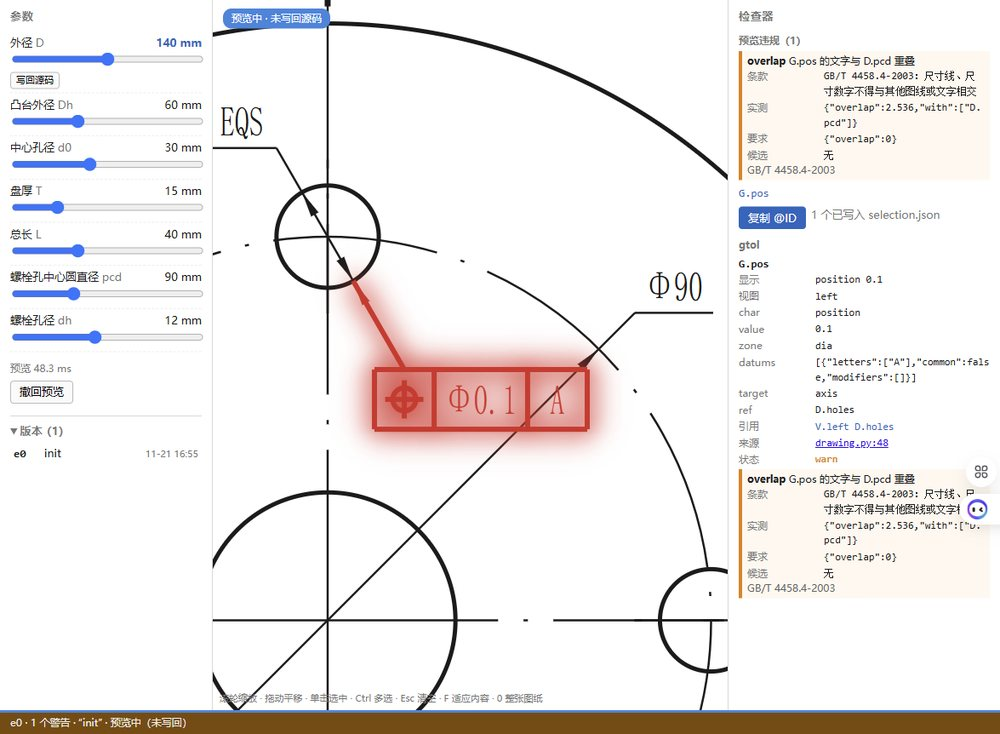
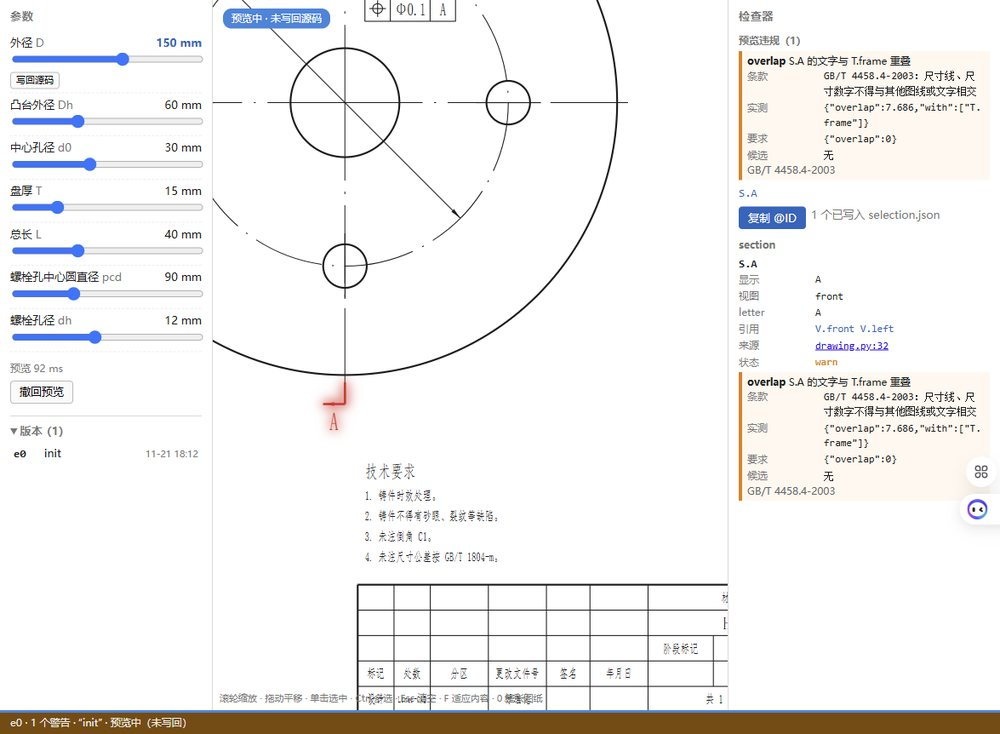
fix: B3 second review - repin scenario after D1, keep failed-preview marks, restore preview values/status/seq on reload

diff --git a/src/linercad/viewer/viewer.js b/src/linercad/viewer/viewer.js
@@ -5,7 +5,7 @@ const $ = (id) => document.getElementById(id);
 const S = { version: -1, model: null, byId: {}, sel: [], svg: null, vb: null, full: null, params: [],
   values: {}, dragging: false, previewTimer: null, previewSeq: 0, fitted: false,
   versions: [], pick: [], cmp: null, busy: false,
-  previewIds: new Set(), previewFindings: [], paramError: null, resolved: {}, previewActive: false, unplaced: [] };  // B3
+  previewIds: new Set(), previewFindings: [], paramError: null, resolved: {}, previewActive: false, unplaced: [], statusOrig: {} };  // B3
 
 async function api(path, body) {
   const opt = body === undefined ? { headers: { "X-LCAD-Token": TOKEN } } : { method: "POST", body: JSON.stringify(body),
@@ -18,7 +18,7 @@ async function api(path, body) {
 async function poll() {
   try {
     const st = await api("/api/state");
-    if (!st.preview && clearPreviewFindings()) { colour(); inspect(); }
+    if (!st.preview && !st.param_errors && clearPreviewFindings()) { colour(); inspect(); }
     setStatus(st);
     if (st.version !== S.version) { S.version = st.version; await reload(st); }
   } catch (e) { $("st-text").textContent = "与服务断开：" + e; }
@@ -27,6 +27,7 @@ async function poll() {
 
 function setStatus(st) {
   S.previewActive = !!st.preview;
+  if (typeof st.preview_seq === "number") S.previewSeq = Math.max(S.previewSeq, st.preview_seq);
   const bar = $("status");
   bar.classList.toggle("has-error", !!st.build_error || st.errors > 0);
   bar.classList.toggle("has-warn", !st.build_error && !st.errors && st.warnings > 0);
@@ -111,8 +112,17 @@ function applyFindings(findings, isPreview, resolved, elementIssues) {
   if (!elementIssues) for (const f of findings || []) (byId[f.id] ||= []).push(f);
   for (const e of Object.values(S.byId)) {
     e.issues = byId[e.id] || [];
-    if (e.issues.some((i) => i.severity === "error")) e.status = "error";
-    else if (e.issues.length) e.status = "warn";
+    if (isPreview) {
+      if (!(e.id in S.statusOrig)) S.statusOrig[e.id] = e.status;
+      if (e.issues.some((i) => i.severity === "error")) e.status = "error";
+      else if (e.issues.length) e.status = "warn";
+    } else {
+      const orig = S.statusOrig[e.id];
+      delete S.statusOrig[e.id];
+      if (e.issues.some((i) => i.severity === "error")) e.status = "error";
+      else if (e.issues.length) e.status = "warn";
+      else if (orig !== undefined) e.status = orig;
+    }
   }
   S.previewFindings = isPreview ? findings : [];
   S.previewIds = new Set(isPreview ? findings.map((f) => f.id).concat(Object.keys(resolved || {})) : []);
@@ -339,7 +349,14 @@ async function loadParams() {
     for (const p of ps) div.appendChild(paramRow(p));
     list.appendChild(div);
   }
-  $("btn-reset").disabled = true; $("param-msg").textContent = "";
+  S.values = {};
+  for (const p of r.params) if (p.value !== p.default) S.values[p.name] = p.value;
+  for (const row of list.querySelectorAll(".param")) {
+    const p = r.params.find((q) => q.name === row.dataset.name);
+    row.classList.toggle("changed", !!p && p.value !== p.default);
+  }
+  $("btn-reset").disabled = !Object.keys(S.values).length;
+  $("param-msg").textContent = Object.keys(S.values).length ? "预览值已从服务端恢复（页面 reload）" : "";
 }
 function paramRow(p) {
   const v0 = p.default, lo = p.min ?? +(v0 * 0.5).toFixed(3), hi = p.max ?? +(v0 * 1.5 || 10).toFixed(3);

diff --git a/tests/test_viewer.py b/tests/test_viewer.py
@@ -18,6 +18,12 @@ from linercad.viewer import Viewer, make_handler, rewrite_param
 
 EXAMPLES = ["shaft", "flange", "pulley", "end_cover"]
 
+# B3 acceptance scenario: drag D until the preview build has a violation. Main's layout work (D1 moved
+# the flange radial leaders / section label) can move this value: keep it in one place, and assert the
+# semantics (a finding with the E1 fields on a drawn element) rather than one layout coordinate.
+PREVIEW_VIOLATION = {"D": 150}
+PREVIEW_VIOLATION_ID = "S.A"
+
 
 @pytest.fixture(scope="module")
 def built(tmp_path_factory):
@@ -257,25 +263,29 @@ def flange_dir(tmp_path):
 def test_preview_returns_e1_finding_fields(flange_dir):
     v = Viewer(flange_dir)
     r = v.do_preview(
-        {"D": 140}
-    )  # the flange drags D out until the position frame overlaps a dimension
+        PREVIEW_VIOLATION
+    )  # the flange drags D out until the section label hits the frame
     assert r["ok"] and r["findings"], r
-    hit = [f for f in r["findings"] if f["rule"] == "overlap" and f["id"] == "G.pos"]
+    for f in r["findings"]:  # every preview violation carries the E1 fields
+        assert {"rule", "id", "severity", "message"} <= set(f)
+        assert {"clause", "measured", "expected", "candidates"} <= set(f), f
+    hit = [f for f in r["findings"] if f["id"] == PREVIEW_VIOLATION_ID]
     assert hit, r["findings"]
     f = hit[0]
-    assert f["severity"] == "warn"
+    assert f["severity"] == "warn" and f["rule"] == "overlap"
     assert "GB/T 4458.4-2003" in f["clause"] and "尺寸" in f["clause"]  # E1 clause statement
-    assert f["measured"]["with"] == ["D.pcd"] and f["measured"]["overlap"] > 0  # E1 measured values
+    assert isinstance(f["measured"], dict) and f["measured"]  # E1 measured values
     assert f["expected"]["overlap"] == 0.0  # E1 expectation
     assert f["candidates"] == [] and isinstance(f["candidates"], list)  # E1 candidates
     assert f["pack"] == "layout" and f["std"] == "GB/T 4458.4-2003"
-    assert r["resolved"] == {}  # every D=140 finding points at a drawn element directly
-    assert r["element_issues"]["G.pos"][0]["clause"] == f["clause"]  # inspector data for the target
+    assert r["resolved"] == {}  # every finding points at a drawn element directly
+    assert r["element_issues"][PREVIEW_VIOLATION_ID][0]["clause"] == f["clause"]  # inspector data
 
 
 def test_preview_findings_reach_model_and_snapshot(flange_dir):
     v = Viewer(flange_dir)
-    r = v.do_preview({"D": 140})
+    r = v.do_preview(PREVIEW_VIOLATION)
+    assert v.params()["params"][0]["value"] == PREVIEW_VIOLATION["D"]  # a reload can restore it
     ids = {f["id"] for f in r["findings"]}
     model = v.model()
     drawn = {e["id"] for e in model["elements"]}
@@ -283,13 +293,17 @@ def test_preview_findings_reach_model_and_snapshot(flange_dir):
         ids and ids <= drawn
     )  # every violation points at a drawn element: the canvas can colour it
     by_id = {e["id"]: e for e in model["elements"]}
-    issue = next(i for i in by_id["G.pos"]["issues"] if i["rule"] == "overlap")
+    issue = next(i for i in by_id[PREVIEW_VIOLATION_ID]["issues"] if i["rule"] == "overlap")
     assert {"clause", "measured", "expected", "candidates"} <= set(issue)
     assert "GB/T 4458.4-2003" in issue["clause"]
-    global_issue = next(i for i in model["issues"] if i["rule"] == "overlap" and i["id"] == "G.pos")
+    global_issue = next(
+        i for i in model["issues"] if i["rule"] == "overlap" and i["id"] == PREVIEW_VIOLATION_ID
+    )
     assert {"clause", "measured", "expected", "candidates"} <= set(global_issue)
     snap = json.loads((flange_dir / ".linercad/snapshot.json").read_text(encoding="utf-8"))
-    s = next(i for i in snap["issues"] if i["rule"] == "overlap" and i["id"] == "G.pos")
+    s = next(
+        i for i in snap["issues"] if i["rule"] == "overlap" and i["id"] == PREVIEW_VIOLATION_ID
+    )
     assert s["clause"] == issue["clause"] and s["measured"] == issue["measured"]
     assert s["expected"] == issue["expected"] and s["candidates"] == issue["candidates"]
     # releasing the slider / undoing the preview clears the findings again
@@ -312,7 +326,16 @@ def test_preview_param_rule_error_lists_affected_elements_only(flange_dir):
     assert snap["param_errors"]["error"]["id"] == "Dh" and snap["param_errors"]["affected"] == [
         "D.Dh"
     ]
+    # the page keeps the failed preview's marks until the next user action: state tells it so
+    state = v.state()
+    assert state["param_errors"] is True and isinstance(state["preview_seq"], int)
+    # a rebuild (refresh) must not leave the failed preview in snapshot.json
+    assert v.refresh(force=True)
+    assert v.state()["param_errors"] is False
+    snap = json.loads((flange_dir / ".linercad/snapshot.json").read_text(encoding="utf-8"))
+    assert snap["param_errors"] == {}
     # withdrawing the preview must also clear the param error from snapshot.json (B3 review)
+    assert v.do_preview({"Dh": 120})["ok"] is False
     assert v.do_preview({})["ok"]
     snap = json.loads((flange_dir / ".linercad/snapshot.json").read_text(encoding="utf-8"))
     assert snap["param_errors"] == {}
@@ -360,6 +383,9 @@ def test_viewer_consumes_preview_findings_on_the_canvas():
         "element_issues",
         "previewActive",
         "unplaced",
+        "statusOrig",
+        "st.preview_seq",
+        "预览值已从服务端恢复",
         "releasePreview",
         "++S.previewSeq",
         "无",
@@ -374,12 +400,17 @@ def test_viewer_consumes_preview_findings_on_the_canvas():
 
 def test_withdrawn_preview_cannot_be_restored_by_a_stale_request(flange_dir):
     v = Viewer(flange_dir)
-    assert v.do_preview({"D": 140}, seq=5)["ok"]
+    assert v.do_preview(PREVIEW_VIOLATION, seq=5)["ok"]
     # a freshly reloaded page starts its seq at 1 while the server still knows seq 5: withdrawal wins
     assert v.do_preview({}, seq=1)["ok"] and v.preview is None
-    late = v.do_preview({"D": 140}, seq=5)  # the old page's in-flight preview arrives after it
+    late = v.do_preview(
+        PREVIEW_VIOLATION, seq=5
+    )  # the old page's in-flight preview arrives after it
     assert late["ok"] is False and late.get("superseded") and v.preview is None
-    assert v.state()["preview"] is False
+    state = v.state()
+    assert (
+        state["preview"] is False and state["preview_seq"] == 6
+    )  # client adopts the server baseline
 
 
 def test_unplaced_finding_is_listed_with_the_e1_fields(tmp_path):
@@ -416,10 +447,10 @@ def test_preview_api_returns_findings_with_fields(tmp_path):
     try:
         base = f"http://127.0.0.1:{httpd.server_address[1]}"
         tok = {"X-LCAD-Token": v.token}
-        code, body = req(base + "/api/preview", {"values": {"D": 140}, "seq": 1}, tok)
+        code, body = req(base + "/api/preview", {"values": PREVIEW_VIOLATION, "seq": 1}, tok)
         got = json.loads(body)
         assert code == 200 and got["ok"], got
-        hit = next(f for f in got["findings"] if f["rule"] == "overlap" and f["id"] == "G.pos")
+        hit = next(f for f in got["findings"] if f["id"] == PREVIEW_VIOLATION_ID)
         assert "GB/T 4458.4-2003" in hit["clause"] and hit["expected"]["overlap"] == 0.0
         assert got["affected"] == []
         code, body = req(base + "/api/preview", {"values": {}, "seq": 2}, tok)

diff --git a/src/linercad/viewer/__init__.py b/src/linercad/viewer/__init__.py
@@ -128,6 +128,7 @@ class Viewer:
             else:
                 self.res, self.svg, self.error = res, svgout.svg(res.d), None
                 self.preview = None
+                self.param_errors = {}
             self.version += 1
             self._write_snapshot()
             return True
@@ -163,6 +164,8 @@ class Viewer:
                 "warnings": warns,
                 "build_error": self.error,
                 "preview": bool(self.preview),
+                "preview_seq": self.preview_seq,
+                "param_errors": bool(self.param_errors),
             }
 
     def _current(self):

diff --git a/docs/milestones/v0.1.1/evidence/b3-viewer-violations.md b/docs/milestones/v0.1.1/evidence/b3-viewer-violations.md
@@ -2,12 +2,15 @@
 
 卡 B3（issue #96，W3 核心卡）· 2026-11-21 · 依赖 E1（finding 的 clause / measured / expected / candidates）
 
-## 1. 验收场景（lead 2026-11-21 裁定）
+## 1. 验收场景（lead 2026-11-21 裁定；main 合入 D1 后重钉）
 
-v0.1.0 review 第 3 条的复现写作「flange 把 dh 拖到违规值」，但 **当前 main（含 E1）的 dh 场景不可复现**：flange 的参数规则只挂在 Dh / d0 / L / pcd 上，dh 无规则；在 dh∈[6, 20] 内 `Dh < pcd − dh`（60 < 70…84）与 `pcd + dh < D`（96…110 < 120）恒成立，预览既不报 ParamError 也不产生任何 check finding（实测扫过 dh=6..20 全部 0.5 步长，并把其它参数推到极值核对过规则语义）。lead 裁定改用**真实可触发的预览违规**：
+v0.1.0 review 第 3 条的复现写作「flange 把 dh 拖到违规值」，但 **E1 后的 dh 场景不可复现**：flange 的参数规则只挂在 Dh / d0 / L / pcd 上，dh 无规则；dh∈[6, 20] 内 `Dh < pcd − dh` 与 `pcd + dh < D` 恒成立，预览既不报 ParamError 也不产生任何 check finding（实测扫过 dh=6..20 全部 0.5 步长，并把其它参数推到极值核对规则语义）。lead 裁定改用真实可触发的预览违规。
 
-- **flange 把 D 拖到 140** → 预览产生 `overlap / G.pos`（warn，E1 四字段齐全）→ 画布上 G.pos 标红 → 拖回默认值 / 撤回预览后消失。
-- dh 场景在 E1 后不可复现这件事，lead 记入台账，由 F1 的 docs PR 补偏离记录；V1 重拍 B 卡截图时与 D1 / D2 一起复核（PLAN §2 的截图重拍约定）。
+**场景随 main（D1）演进而重钉**：B3 分支最初按 c20c8b7 的布局写「D=140 → overlap / G.pos」，D1（#117，放射状直径引线与布局）合入后 flange 的布局变了，D=140 不再产生 finding；按 main（ee5b1f6）实测重钉为：
+
+- **flange 把 D 拖到 150** → 预览产生 `overlap / S.A`（warn，E1 四字段齐全）→ 画布上 S.A（剖切符号 A）标红 → 拖回默认值 / 撤回预览后消失。
+- dh 场景在 E1 后不可复现这件事，lead 记入台账，由 F1 的 docs PR 补偏离记录。
+- 测试把触发值收在一个常量（`PREVIEW_VIOLATION = {"D": 150}` / `PREVIEW_VIOLATION_ID = "S.A"`），断言语义（违规 finding 四字段齐全、ID 是画布元素、撤回后消失）；以后 main 的布局再动只需改这一行。
 
 ## 2. 复现步骤（临时目录图纸仓库，产物不入库）
 
@@ -18,38 +21,44 @@ uv run lcad -C <临时目录>\flange view --port 0 --no-open   # 打开输出的
 
 浏览器里：
 
-1. 参数栏把「外径 D」滑到 **140**（预览态，画布左上角显示「预览中（未写回）」）。
-2. 画布上左视图的 G.pos 形位公差框格变**红**（`g.st-violation`，`rgb(214, 39, 40)`）；检查器顶部「预览违规（1）」列出 `overlap G.pos`，并**始终**显示条款 / 实测 / 要求 / 候选四个字段（空容器显示「无」，本例如候选为「无」）；点该行下面的 `G.pos` 可选中元素，元素详情里同样有这四个字段（见截图 1）。
-3. 把 D 拖回 120（或点「撤回预览」）→ 红框与「预览违规」消失、画布恢复；此时 `snapshot.json` 的 `issues` 也回到空（见截图 2）。
+1. 参数栏把「外径 D」滑到 **150**（预览态，画布左上角显示「预览中（未写回）」）。
+2. 画布上剖切符号 S.A 变**红**（`g.st-violation`，`rgb(214, 39, 40)`）；检查器顶部「预览违规（1）」列出 `overlap S.A`，并**始终**显示条款 / 实测 / 要求 / 候选四个字段（空容器显示「无」，本例如候选为「无」）；点该行下面的 `S.A` 选中元素，元素详情里同样有这四个字段（见截图 1）。
+3. 把 D 拖回 120（或点「撤回预览」/ 按 Esc）→ 红标与「预览违规」消失、画布恢复；此时 `snapshot.json` 的 `issues` 也回到空（见截图 2）。
 
-截图（本目录，小图）：
-- `b3-preview-violation.jpg`：D=140 预览，G.pos 红框 + 检查器四字段（选中态仍保持红色，CSS 让违规色优先于选中色）。
-- `b3-released.jpg`：拖回默认后，红框与预览违规消失。
+截图（本目录，小图，同一缩放区域）：
+- `b3-preview-violation.jpg`：D=150 预览，S.A 标红 + 检查器四字段（选中态仍保持红色，CSS 让违规色优先于选中色）。
+- `b3-released.jpg`：拖回默认后，红标与预览违规消失、元素状态恢复为 ok。
 
 ## 3. 接口与文件字段
 
-- `POST /api/preview` 成功时新增 `findings`：每条 finding 带 `rule / id / severity / message / clause / measured / expected / candidates / pack / std`；参数规则失败时返回 `affected`（covers 该参数的元素 ID），错误对象只用 ParamError 实有的 `message / values / hint / candidates`，不造 clause / measured / expected。
-- `GET /api/model` 的 `issues`（全局）与每个元素的 `issues` 带同样字段；页面 reload 且服务端预览仍在时，用 model 的 issues 复原红色标记与检查器。
-- `.linercad/snapshot.json` 的 `issues` 带同样字段（预览时是预览 build 的 findings，撤回后回到当前 build 的 findings）。实测预览 D=140 时：
+- `POST /api/preview` 成功时新增 `findings`：每条 finding 带 `rule / id / severity / message / clause / measured / expected / candidates / pack / std`；预览成功还带 `resolved`（finding id 不是可画元素时映射到的元素）、`unplaced`（没有可画目标的 finding）与 `element_issues`（选中目标元素时检查器用的数据）。
+- 参数规则失败时返回 `affected`（covers 该参数的元素 ID），错误对象只用 ParamError 实有的 `message / values / hint / candidates`，不造 clause / measured / expected。
+- `GET /api/state` 带 `preview` / `preview_seq` / `param_errors`：页面 reload 后客户端用 `preview_seq` 作拖动基线；失败预览的标红与面板保持到下一次用户动作。
+- `GET /api/model` 的 `issues`（全局与每元素）、`resolved` / `unplaced` 带同样字段；页面 reload 且服务端预览仍在时，用 model 复原红色标记、检查器与预览参数值。
+- `.linercad/snapshot.json` 的 `issues` 带同样字段（预览时是预览 build 的 findings，撤回后回到当前 build 的 findings）。实测预览 D=150 时：
 
 ```json
-{"rule": "overlap", "id": "G.pos", "severity": "warn", "message": "G.pos 的文字与 D.pcd 重叠",
+{"rule": "overlap", "id": "S.A", "severity": "warn", "message": "S.A 的文字与 T.frame 重叠",
  "clause": "GB/T 4458.4-2003：尺寸线、尺寸数字不得与其他图线或文字相交",
- "measured": {"overlap": 2.536, "with": ["D.pcd"]}, "expected": {"overlap": 0.0},
+ "measured": {"overlap": 7.686, "with": ["T.frame"]}, "expected": {"overlap": 0.0},
  "candidates": [], "pack": "layout", "std": "GB/T 4458.4-2003"}
 ```
 
 ## 4. 代码改动
 
-- `src/linercad/viewer/__init__.py`：`FINDING_KEYS` / `_finding()`；`model()`、`_write_snapshot()`、`do_preview()` 输出 E1 字段；预览成功返回 `findings`、`resolved`（finding id 本身不是可画元素时映射到的元素，如 `V.top` → 该视图的元素）与 `unplaced`（找不到可画元素的 finding，如未被任何尺寸覆盖的参数 `P.L`；检查器照常列四字段）；`element_issues` 让检查器选中目标元素时也能看到被解析过去的 view 级 finding；参数规则失败返回 `affected` 与 ParamError 原有字段（次要路径，不改 E1 字段语义）；撤回预览先于 seq 判重并递增服务端 preview_seq（页面 reload 后旧的 seq 也能撤回、在途旧预览不能把红色写回），同时清空 snapshot.json 的 `param_errors`。
-- `viewer/viewer.js`：`applyFindings()` 消费 preview 的 findings / element_issues → 每个元素的 issues + `previewIds`，并即时重绘检查器；`colour()` 给违规元素加 `st-violation`（红色，优先于选中 / hover 色）；检查器新增「预览违规」「未定位违规」面板与四字段（条款 / 实测 / 要求 / 候选，空容器显示「无」）、ParamError 面板（值 / 提示 / 候选）；拖动一开始就置 previewActive，页面 reload 且预览仍在时从 model 复原（含 `resolved` / `element_issues` / `unplaced`）；预览结束 / **Esc** / 撤回预览清空并重绘（撤回先递增 previewSeq，在途预览请求不能把旧预览写回）。
+- `src/linercad/viewer/__init__.py`：`FINDING_KEYS` / `_finding()`；`model()`、`_write_snapshot()`、`do_preview()` 输出 E1 字段；预览成功返回 `findings` / `resolved` / `unplaced` / `element_issues`；参数规则失败返回 `affected` 与 ParamError 原有字段；`state()` 暴露 `preview_seq` 与 `param_errors`；撤回预览先于 seq 判重并递增服务端 preview_seq（页面 reload 后旧的 seq 也能撤回、在途旧预览不能把红色写回），同时清空 snapshot.json 的 `param_errors`；`refresh()` 重建时同步清 `param_errors`。
+- `viewer/viewer.js`：`applyFindings()` 消费 findings / element_issues → 每个元素的 issues + `previewIds`，保存并还原被预览覆盖的元素 `status`，即时重绘检查器；`colour()` 给违规元素加 `st-violation`（红，优先于选中 / hover 色）；检查器「预览违规」「未定位违规」面板与四字段（条款 / 实测 / 要求 / 候选，空容器显示「无」）、ParamError 面板（值 / 提示 / 候选）；拖动一开始就置 previewActive；轮询采用服务端 `preview_seq` 作基线；失败预览的标红与面板保持到下一次用户动作；页面 reload 且预览仍在时从 model 复原红色标记 / 检查器，并从 `/api/params` 的预览值复原 `S.values`（之后拖别的参数不会静默回退旧预览值）。
 - `viewer/viewer.css`：`g.st-violation` 与选中 / hover 组合的红色规则。
-- `tests/test_viewer.py`：G2 先失败（5 failed）再实现；新增 10 个测试（preview findings 四字段与 element_issues、model / snapshot 同步、撤回后清空、ParamError affected 且不造字段、view-level finding 映射到视图元素且检查器可见、未定位参数 finding 进 unplaced 且四字段齐全、撤回后在途旧请求 superseded（含页面 reload 后旧 seq 撤回）、viewer.js / css 消费、HTTP 预览接口），并保留原有 issue 颜色与服务守卫测试。浏览器侧的 Esc / 撤回状态转换另用 ego-browser 实测（本次两张截图即由真实页面操作得到）。
-- 未改 `commands.py` / `examples/` / check 规则。
+- `tests/test_viewer.py`：G2 先失败（5 failed）再实现；新增 12 个测试（preview findings 四字段与 element_issues、model / snapshot 同步、撤回后清空、ParamError affected 且不造字段、view-level finding 映射且检查器可见、未定位参数 finding 进 unplaced 且四字段齐全、撤回后在途旧请求 superseded（含页面 reload 后旧 seq 撤回）、state 的 preview_seq / param_errors、refresh 清 param_errors、参数接口返回预览值、viewer.js / css 消费、HTTP 预览接口），并保留原有 issue 颜色与服务守卫测试。
+- 未改 `commands.py` / `examples` / 布局 / check 规则。
 
-## 5. 验证
+## 5. 已知限制（记已知不修）
 
-- `uv run pytest` 全量通过（最终数字见 PR）。
+仓库没有 JS 测试运行器；`viewer.js` 的状态机（Esc / 撤回竞态 / reload 复原 / status 还原）由服务端 pytest（seq、param_errors、snapshot、params）+ ego-browser 现场证据承载，不为此引入浏览器测试框架。验收场景依赖当前布局坐标，已收进 `PREVIEW_VIOLATION` 常量并断言语义。
+
+## 6. 验证
+
+- `uv run pytest` 全量通过（数字见 PR 评论）。
 - `uv run ruff check` / `uv run ruff format --check` 通过。
-- `uv run python evals/run.py --baseline evals/baseline.json --out <临时目录>/report.json`：regressions 空（A4/E1 后的基线，最终数字见 PR）。
-- 截图来自 `ego-browser` 实际操作（滑块 set + input 事件、点选元素、撤回），临时目录 `%TEMP%\b3-evidence\flange`，不入库（本目录只留两张小 jpg）。
+- `uv run python evals/run.py --baseline evals/baseline.json --out <临时目录>/report.json`：regressions 空，D 0.972252（2775, 77）与当前基线逐项一致。
+- 截图来自 `ego-browser` 实际操作（滑块 set + input 事件、点选元素、滚轮缩放、撤回），临时目录 `%TEMP%\b3-evidence\flange-main`，不入库（本目录只留两张小 jpg）。
